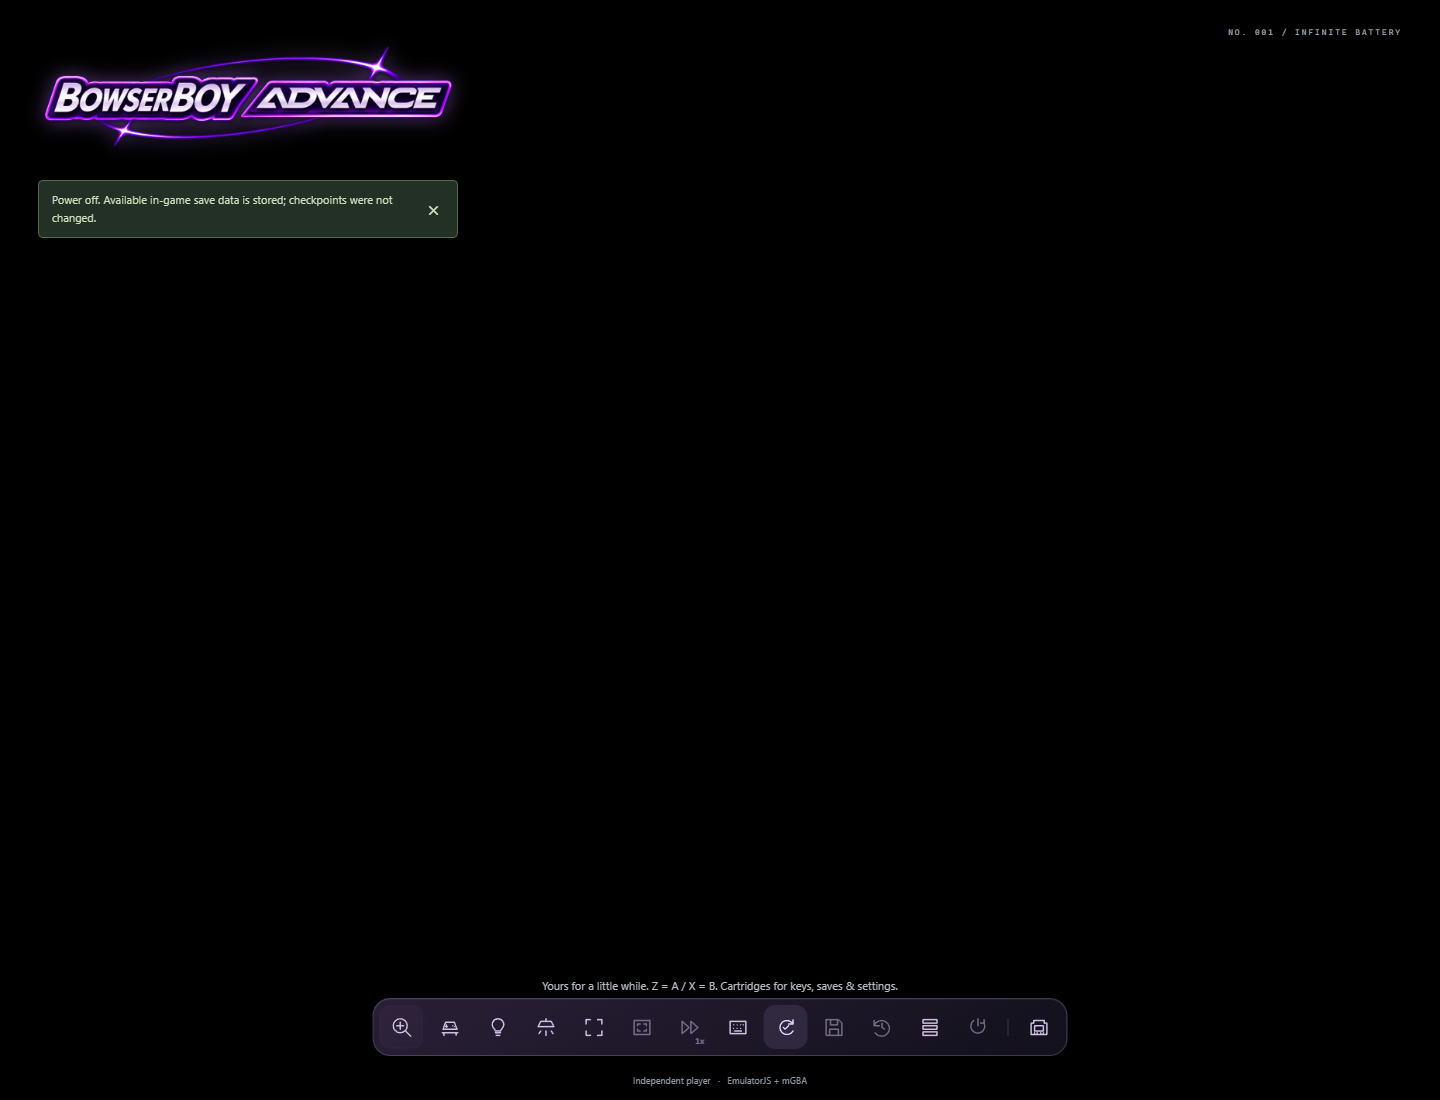
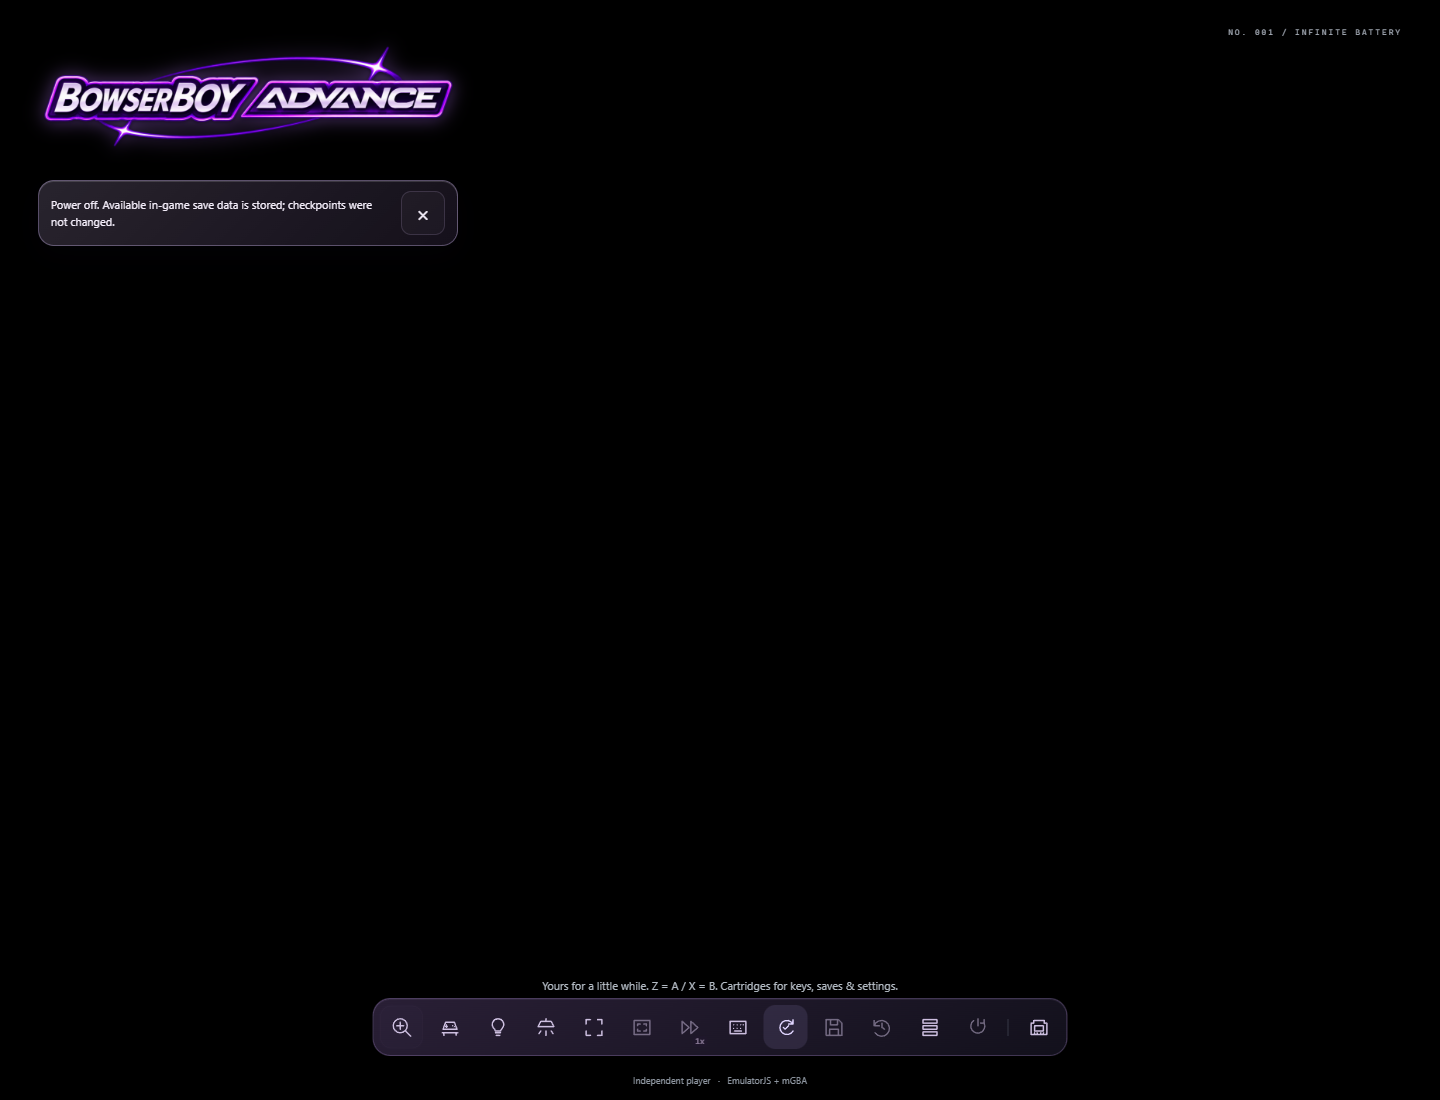
docs: finalize book delivery and verified notification release
Record exact public asset and native behavior evidence, finish workstreams 29 and 30, retain honest local recording provenance, and publish the actual public notice and lighting captures.

Copilot-Session: 8e7d69ac-78f7-4310-8b8d-14bf8681a509

Changed region(s): [[0.0312, 0.1545, 0.3438, 0.2473]]

diff --git a/docs/MEDIA.md b/docs/MEDIA.md
@@ -10,7 +10,7 @@ This is the user's explicit policy for this repository, not a portfolio-wide rul
 
 ### Current refresh - manufactured controls and glass
 
-The four interaction GIFs and the notice, underside, fullscreen, dock and
+The four interaction GIFs and the underside, fullscreen, dock and
 3D-pose figures now show qualified application source
 `ab912d51ecc615f7aa55a4d27f6a876673739cdf`. They are **actual local-build
 captures**, not captures of a newly deployed public release. The browser served
@@ -19,6 +19,16 @@ At capture, normal Pages run `41875740589` had passed build, 11 units and all
 39 browser cases, but deployment remained pending. The separate
 [verification record](VERIFICATION.md#frosted-notifications-and-clear-handheld)
 owns production status. Do not infer publication from these figures.
+
+**Subsequent production qualification:** Pages `41875740589` succeeds.
+Independent verification matches all 28 public assets to `ab912d5`; five
+actual public cases pass in 2.0m, including native clock/speed, slots/autosave/
+restart/fullscreen, notice clearance, mapped input/LCD light and real pinch.
+The notice figure is then replaced with an actual public capture; desktop
+and phone public notices are reviewed with zero page errors. The LCD-light
+and power-off figures also come from the new public native-input regression.
+The interaction GIFs and other local captures retain their original local
+provenance; release success does not retroactively change capture location.
 
 The existing capture/encoder is reused, calling only its clip encoder to
 preserve the transparent banner byte-for-byte. Edge records at 1100x850;
@@ -69,8 +79,8 @@ been replaced by the locally captured shared stylized texture described above.
 - Only the original Pixel Lab cartridge is used. No commercial ROMs, gameplay,
   private browser state or recordings are included.
 - GIFs are silent and loop. Their captions and alt text describe the motion.
-  GitHub does not expose a per-image pause control; static alternatives are
-  available in the [player guide](GUIDE.md).
+  GitHub's image player and animation preferences control presentation;
+  static alternatives are available in the [player guide](GUIDE.md).
 - Documentation images are not part of the static application's build allowlist.
 
 Earlier versions of all four interaction GIFs, and the startup/pose/dock figures, were

diff --git a/docs/VERIFICATION.md b/docs/VERIFICATION.md
@@ -54,6 +54,35 @@ encoded temporal samples and actual desktop/phone notice/fullscreen/underside
 figures are reviewed. See [Media](MEDIA.md#current-refresh---manufactured-controls-and-glass).
 No app source, thresholds or release gates change in this documentation task.
 
+**Final release outcome, 23:25 IST:** normal run `41875740589` completes
+successfully, including deployment. Independent verification matches all
+28 exact public assets to `ab912d51ecc615f7aa55a4d27f6a876673739cdf`.
+Five actual public Edge cases pass in 2.0m: native clock/fast-forward/VSync;
+quick actions with slots/autosave/restart/fullscreen; molded branding and
+frosted notice clearance; mapped input/native LCD illumination; actual
+touch inspection/pinch without game input. Actual public desktop/phone notice
+captures are reviewed; zero capture page errors. Workstream 29 is complete.
+The pending observations above remain historical, not current release status.
+
+## Engineering book and documentation edition
+
+The first book has ten numbered chapter folders and a revision-bound source
+register, with dedicated algorithms/data-structures and design-principle
+chapters, vertical Mermaid diagrams, captioned figures and exercises/answers.
+It is a Markdown edition, not a claimed PDF or separately built reader.
+
+Documentation check covers 18 Markdown files and 130 local file/anchor links
+with zero errors. Transparent-banner bytes are unchanged. GitHub independently
+reports matching identities for all 34 changed blobs in documentation commit
+`67e883db7e5ef49a8f770568222abec18a2ed6ca`. Actual GitHub rendering decodes all
+ten README image embeds, exposes all ten chapter links and renders the book
+index and algorithm diagrams as SVG. Those two book pages are visually reviewed.
+An initial capture probe incorrectly selects GitHub's hidden animated-image
+fallbacks; the probe is corrected to await hydration and inspect displayed
+images. This is a capture-tool correction, not an application change.
+No blanket claim that every chapter was visually rendered or that a human
+approved the new edition is made.
+
 ## Main-page logo contrast
 
 The header alone adds a static alpha-shaped violet glow and tight dark

diff --git a/docs/GUIDE.md b/docs/GUIDE.md
@@ -2,9 +2,10 @@
 
 [Visual showcase](../README.md) | [Play online](https://zanark.github.io/BowserBoyAdvance/) | [Engineering book](../book/README.md)
 
-**Current source and pictures:** the updated pose, underside, fullscreen and
-glass-notice figures are actual local captures of qualified source `ab912d5`.
-The 39-case hosted gate passes; its notification deployment remains pending.
+**Current release and pictures:** source `ab912d5` is independently verified
+live after the full 39-case hosted gate. Most updated motion/pose/detail figures
+were captured locally before deployment; the notice and lighting/power-off
+figures are subsequently captured on the actual public release.
 See [release evidence](VERIFICATION.md#frosted-notifications-and-clear-handheld)
 and [capture origins](MEDIA.md#current-refresh---manufactured-controls-and-glass).
 
@@ -324,13 +325,13 @@ gate intact; report permission failures rather than bypassing them. This is the
 user's recovery policy for this repository only.
 
 Pages address: **https://zanark.github.io/BowserBoyAdvance/**.
-Latest independently verified application: manufactured-control source
-`7843db880a52539d6e2050f79070f5829947a393`, Pages `41867840972`;
-its 28 public assets and four actual public cases match/pass.
-Notification source `ab912d51ecc615f7aa55a4d27f6a876673739cdf`
-passes all 39 hosted cases in fresh normal run `41875740589`, but deployment
-and independent public qualification remain pending at this documentation
-refresh. A healthy pending run is not retried or duplicated.
+Latest independently verified application: notification source
+`ab912d51ecc615f7aa55a4d27f6a876673739cdf`, fresh normal Pages `41875740589`.
+Build, 11 units, all 39 browser cases and deployment succeed. Independent
+verification matches 28 public assets; five actual public native/notice/pinch/
+fullscreen/save/input cases pass in 2.0m. Desktop/phone public notice captures
+are reviewed. The healthy deployment was allowed to finish without duplicate
+dispatches or retrying the earlier failed run.
 
 The following paragraphs retain historical release evidence. The
 icon-dock/orbital-startup release was

diff --git a/README.md b/README.md
@@ -7,7 +7,7 @@
   &nbsp;&middot;&nbsp; <a href="book/README.md">Engineering book</a>
 </p>
 
-*Current-build preview footage; [capture origins and release status](docs/MEDIA.md#current-refresh---manufactured-controls-and-glass).*
+*Actual current-build recordings; [capture origins and release evidence](docs/MEDIA.md#current-refresh---manufactured-controls-and-glass).*
 
 ## Pick it up. Turn it over.
 
@@ -17,9 +17,9 @@
 
 ## A clearer little message.
 
-![Actual local-build power-on notice in frosted glass below the website logo, clear of the whole handheld](docs/images/frosted-notifications.png?v=molded-glass-book-20261104)
+![Actual public power-on notice in frosted glass below the website logo, clear of the whole handheld](docs/images/frosted-notifications.png?v=molded-glass-book-20261104)
 
-*Frosted glass. Room for the handheld. [Production verification pending](docs/VERIFICATION.md#frosted-notifications-and-clear-handheld).*
+*Frosted glass. Room for the handheld. [Verified live](docs/VERIFICATION.md#frosted-notifications-and-clear-handheld).*
 
 ## Power where it belongs.
 

diff --git a/book/README.md b/book/README.md
@@ -57,9 +57,12 @@ files and symbols. It is not an exhaustive source atlas. The
 [development ledger](../TODO/04_DEVELOPMENT_LEDGER.todo) preserves the causal
 history, including failed approaches.
 
-The book describes the qualified source, not a blanket claim that every feature
-is deployed. At authoring, frosted-notification source passes all hosted gates,
-but its Pages deployment is queued. See the dated evidence in
+The book describes the qualified source, with release claims supported
+separately. At initial authoring, frosted-notification source passes all hosted
+gates while deployment is queued. Before finalizing this edition, that
+deployment completes: all 28 public assets match and five actual public cases
+pass, including notices, native input/speed, fullscreen/saves and pinch.
+See the dated evidence in
 [Verification](../docs/VERIFICATION.md). Local captures are labeled in
 [Media](../docs/MEDIA.md). Desktop browser checks are not physical-phone
 qualification or user aesthetic approval.

diff --git a/book/chapters/09-testing-and-delivery/README.md b/book/chapters/09-testing-and-delivery/README.md
@@ -66,6 +66,12 @@ jobs but a queued deployment. There are no deployment steps establishing a
 published result. An empty pending-approval list does not identify a queue
 cause. The public asset receipt still identifies the older application.
 
+That observation is historical. Before finalizing the edition, the same healthy
+run completes successfully; all 28 public assets match and five real public
+native/notice/pinch/fullscreen/save/input cases pass in 2.0m. Desktop/phone
+public notice captures are reviewed. Waiting and verifying closes the release
+boundary; it does not change the earlier local recordings' capture origin.
+
 The repository's recovery policy is to start a fresh normal workflow after a
 failed run, never retry the failed attempt. A healthy queued deployment is not
 itself a failure and does not justify duplicate dispatches, dummy commits or
